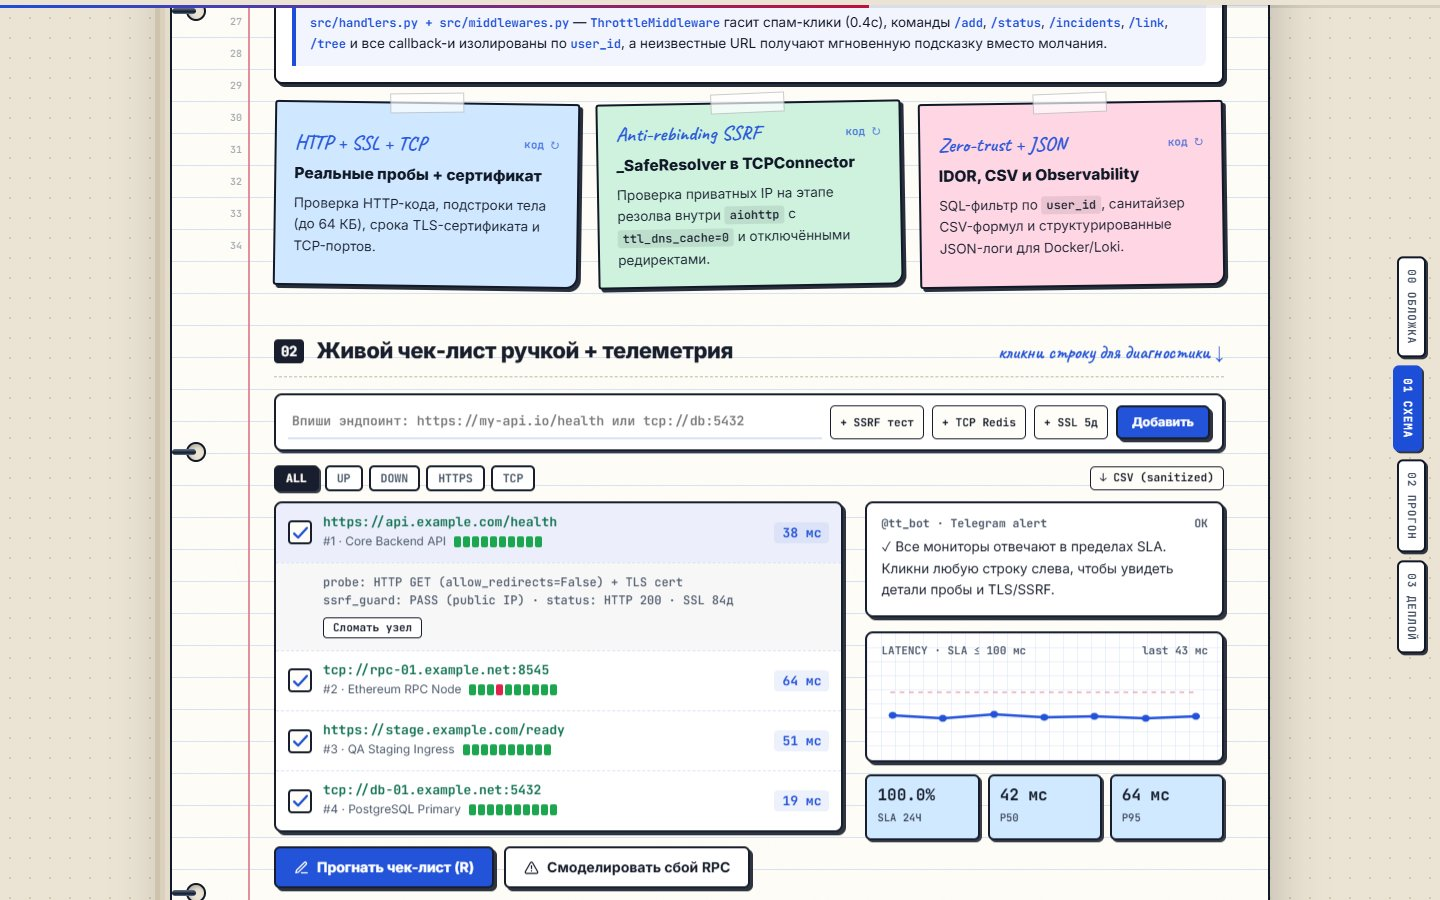
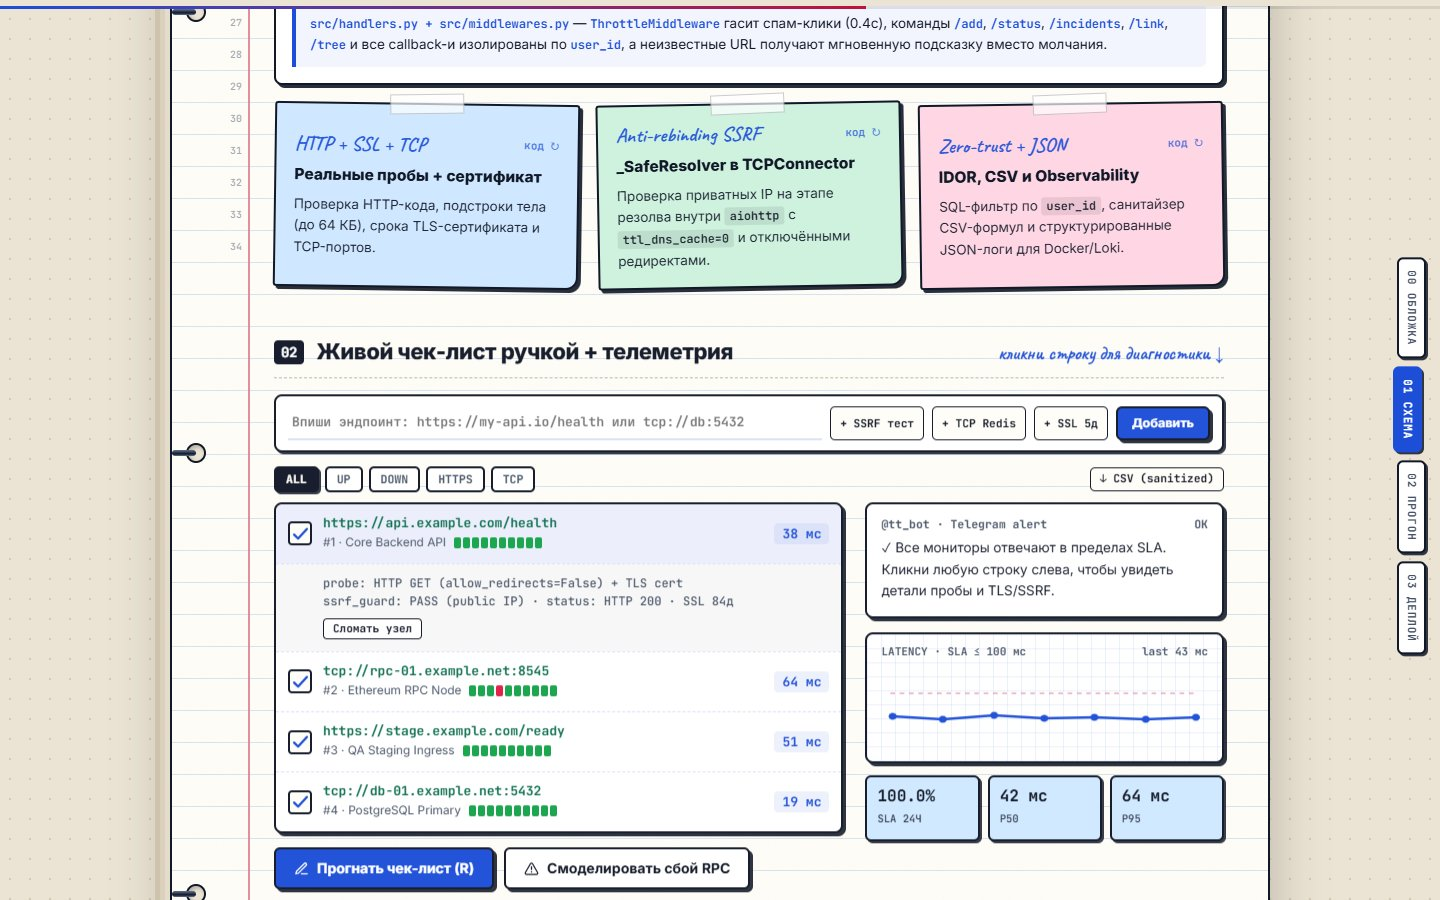
fix(web): close measured mobile accessibility defects (#34)
A fresh 390x844 touch audit of the merged landing found 32 of 44
interactive targets below 44x44px, a 13px endpoint input, a scrollable
code region without keyboard access, and focus lost after closing the
command palette from its trigger. Two remembered findings did not
reproduce: keyboard-opened focus already returned, and the default
demo's missing delete action is an intentional id >= 5 guard.

At <=900px every interactive target is now at least 44x44px and the
endpoint input is 16px. The code block is a named focusable region; the
palette returns focus to its trigger; the code bar wraps so the copy
action is not clipped. The ink picker and wrapping controls were sized
so the larger targets do not overflow at 390px or 320px.

tests/test_ui_a11y.py adds five offline contracts and refuses a truncated
or wrong scan surface. mutation_check.py now carries 39 mutations, all
killed, six aimed at these contracts. Local: 75 passed, 94.87% coverage,
flake8 0, black clean; browser: 0 targets under 44px, 0 controls under
16px, 0 axe-core violations, focus restored, no horizontal overflow.

The README shots are re-rendered and the proof manifest records blob
aaafd28e1261. No backend, schema, routing or callback-data change.

diff --git a/docs/index.html b/docs/index.html
@@ -582,10 +582,16 @@ html[data-theme="blueprint"] .flt-btn[aria-pressed="true"]{background:var(--pen)
   .hole{width:15px;height:15px}
   .hole::after{display:none}
   .hero,.checklist-wrap,.stickies-grid,.sketch-flow{grid-template-columns:1fr}
-  .tel-btn,.brand,.pad-chip,.drawer-btn{min-height:24px}
+  button,input,select,textarea,a[href]{min-height:44px}
+  button,input,select,textarea{min-width:44px}
+  #pad-input{font-size:16px}
+  .ink-picker{height:56px;padding:0 4px;gap:4px}
+  .code-bar{flex-wrap:wrap;gap:8px}
+  #code-caption{flex:1 1 100%}
+  .tel-btn,.brand,.pad-chip,.drawer-btn{min-height:44px}
   .pad-chip{padding:6px 10px}
-  .ink-dot{width:24px;height:24px}
-  footer a{display:inline-block;min-height:24px;padding:4px 2px}
+  .ink-dot{width:44px;height:44px}
+  footer a{display:inline-block;min-height:44px;padding:4px 2px}
 }
 @media(prefers-reduced-motion:reduce){
   html{scroll-behavior:auto}
@@ -873,7 +879,7 @@ html[data-theme="blueprint"] .flt-btn[aria-pressed="true"]{background:var(--pen)
               <span id="copy-label">Скопировать</span>
             </button>
           </div>
-<pre id="code-block">git clone https://github.com/ssrjkk/tt_bot.git
+<pre id="code-block" tabindex="0" role="region" aria-labelledby="code-caption">git clone https://github.com/ssrjkk/tt_bot.git
 cd tt_bot
 cp .env.example .env
 # укажи BOT_TOKEN в .env
@@ -1365,6 +1371,7 @@ docker compose up -d --build</pre>
   const cmdkInput = document.getElementById("cmdk-input");
   const cmdkList = document.getElementById("cmdk-list");
   let cmdkIdx = 0;
+  let cmdkReturnFocus = null;
 
   const COMMANDS = [
     {label:"Прогнать живой чек-лист проверок", hint:"R", run:() => { document.getElementById("checklist").scrollIntoView(); runSimulation(); }},
@@ -1392,8 +1399,17 @@ docker compose up -d --build</pre>
     });
     return filtered;
   }
-  function openCmdk(){ backdrop.classList.add("open"); cmdkInput.value = ""; cmdkIdx = 0; renderCmdk(); cmdkInput.focus(); }
-  function closeCmdk(){ backdrop.classList.remove("open"); }
+  function openCmdk(){
+    cmdkReturnFocus = document.activeElement instanceof HTMLElement ? document.activeElement : null;
+    backdrop.classList.add("open"); cmdkInput.value = ""; cmdkIdx = 0; renderCmdk(); cmdkInput.focus();
+  }
+  function closeCmdk(){
+    if(!backdrop.classList.contains("open")) return;
+    backdrop.classList.remove("open");
+    const target = cmdkReturnFocus;
+    cmdkReturnFocus = null;
+    if(target && target.isConnected) target.focus();
+  }
 
   document.getElementById("cmdk-open").addEventListener("click", openCmdk);
   backdrop.addEventListener("click", e => { if(e.target === backdrop) closeCmdk(); });

diff --git a/tests/test_ui_a11y.py b/tests/test_ui_a11y.py
@@ -1,0 +1,78 @@
+import re
+from html.parser import HTMLParser
+from pathlib import Path
+
+import pytest
+
+ROOT = Path(__file__).resolve().parents[1]
+MOBILE_BLOCK = re.compile(r"@media\(max-width:900px\)\{(.*?)\n\}", re.S)
+
+
+class LandmarkParser(HTMLParser):
+    def __init__(self):
+        super().__init__()
+        self.elements = {}
+
+    def handle_starttag(self, tag, attrs):
+        attrs = dict(attrs)
+        if "id" in attrs:
+            self.elements[attrs["id"]] = (tag, attrs)
+
+
+@pytest.fixture
+def landing():
+    text = (ROOT / "docs" / "index.html").read_text(encoding="utf-8")
+    assert len(text) > 70_000, "a11y gate is not scanning the real landing"
+    assert text.count("<button") >= 30 and text.count("<a ") >= 5
+    return text
+
+
+@pytest.fixture
+def mobile_css(landing):
+    match = MOBILE_BLOCK.search(landing)
+    assert match is not None and len(match.group(1)) > 500
+    return match.group(1)
+
+
+def test_mobile_interactive_targets_are_at_least_44px(mobile_css):
+    assert "button,input,select,textarea,a[href]{min-height:44px}" in mobile_css
+    assert "button,input,select,textarea{min-width:44px}" in mobile_css
+    assert ".ink-dot{width:44px;height:44px}" in mobile_css
+    assert "min-height:24px" not in mobile_css
+
+
+def test_mobile_endpoint_input_prevents_ios_auto_zoom(mobile_css):
+    assert "#pad-input{font-size:16px}" in mobile_css
+
+
+def test_mobile_code_bar_keeps_the_copy_action_visible(mobile_css):
+    assert ".code-bar{flex-wrap:wrap;gap:8px}" in mobile_css
+    assert "#code-caption{flex:1 1 100%}" in mobile_css
+
+
+def test_scrollable_code_block_is_keyboard_focusable_and_named(landing):
+    parser = LandmarkParser()
+    parser.feed(landing)
+    tag, attrs = parser.elements["code-block"]
+    assert tag == "pre"
+    assert attrs.get("tabindex") == "0"
+    assert attrs.get("role") == "region"
+    caption_id = attrs["aria-labelledby"]
+    assert caption_id == "code-caption"
+    assert re.search(r'<span id="code-caption">[^<]+</span>', landing)
+
+
+def test_command_palette_restores_trigger_focus(landing):
+    assert "let cmdkReturnFocus = null;" in landing
+    opened = re.search(r"function openCmdk\(\)\{(.*?)\n  \}", landing, re.S)
+    closed = re.search(r"function closeCmdk\(\)\{(.*?)\n  \}", landing, re.S)
+    assert opened is not None and closed is not None
+    assert (
+        "cmdkReturnFocus = document.activeElement instanceof HTMLElement ? "
+        "document.activeElement : null;" in opened.group(1)
+    )
+    body = closed.group(1)
+    guard = body.index('if(!backdrop.classList.contains("open")) return;')
+    restore = body.index("if(target && target.isConnected) target.focus();")
+    assert guard < restore
+    assert "cmdkReturnFocus = null;" in body

diff --git a/docs/DESIGN.md b/docs/DESIGN.md
@@ -9,7 +9,8 @@
 
 ## 2. Строгий UI/UX стандарт
 
-- **Клавиатурная навигация**: `⌘K` / `Ctrl+K` открывает Command Palette; `R` — прогон проверок, `T` — переключение темы, `I` — смена чернил, `Esc` — закрытие модалок.
+- **Клавиатурная навигация**: `⌘K` / `Ctrl+K` открывает Command Palette; `R` — прогон проверок, `T` — переключение темы, `I` — смена чернил, `Esc` — закрытие модалок с возвратом фокуса на элемент-триггер.
+- **Touch и фокус**: при ширине до 900px каждый интерактивный элемент имеет цель не меньше 44×44px, поле эндпоинта использует 16px (защита от iOS-автозума), прокручиваемый код-блок доступен с клавиатуры и имеет доступное имя. Контракты закреплены `tests/test_ui_a11y.py`; измерение на 390×844 даёт 0 целей меньше 44px, 0 полей меньше 16px и 0 нарушений `axe-core`.
 - **Zero-CLS и `tabular-nums`**: все счётчики SLA, P50, P95 и задержек используют `font-variant-numeric: tabular-nums`.
 - **Обратная связь**: стек тактильных тостов, кликабельные диагностические карточки строк и график задержки с линией SLA `100 мс` и hover-точками.
 - **Только монохром**: ни один символ витрины не имеет права отрисоваться цветной пиктограммой. Запрещены символы со свойством Unicode `Emoji=Yes` (`U+2705`, `U+274C`, `U+1F7E2`, `U+1F504`, `U+1F3E0` …) и `U+FE0F`, который просит emoji-представление для текстового глифа (`U+25AA U+FE0F`, `U+2716 U+FE0F`). Цифры, `#` и `*` в списке не числятся — пиктограммой они становятся только в keycap-последовательности с `U+20E3`, который запрещён отдельно. Гейт `test_product_ui_has_no_pictographs` сверяет все `src/*.py` и страницы `docs/` с таблицей свойства `Emoji` из Unicode `emoji-data.txt` (147 диапазонов) и раскладывает HTML-сущности, чтобы `&#9998;` не объехал проверку. Словарь статусов: `✓ UP`, `✗ DOWN`, `· PENDING`, `… RUNNING`; шкалы — `█`/`░`; маркер строки — `·`; навигация — `←` `→` `↻` `▸` `‖`.

diff --git a/CHANGELOG.md b/CHANGELOG.md
@@ -4,6 +4,16 @@
 
 ## [Unreleased]
 
+### Fixed
+- **Мобильная витрина перестала быть «плотной ценой недоступности».** Повторный замер на
+  390×844 нашёл 32 интерактивных элемента меньше 44×44, поле эндпоинта с шрифтом 13px
+  (iOS автозум), прокручиваемый блок кода без клавиатурного доступа и потерю фокуса после
+  закрытия палитры кнопкой. Теперь при ширине до 900px все интерактивные цели — не меньше
+  44×44, input — 16px, код-блок имеет `tabindex=0` и доступное имя, а палитра возвращает
+  фокус на элемент-триггер. `axe-core` на этой витрине даёт 0 нарушений; пять статических
+  контрактов в `tests/test_ui_a11y.py` и шесть убивающих мутаций не дают откату. Скриншоты
+  README перерендерены, `proof-manifest.json` указывает на новый blob `aaafd28e1261`.
+
 ## [2.4.0] — 2026-11-28
 
 ### Added
